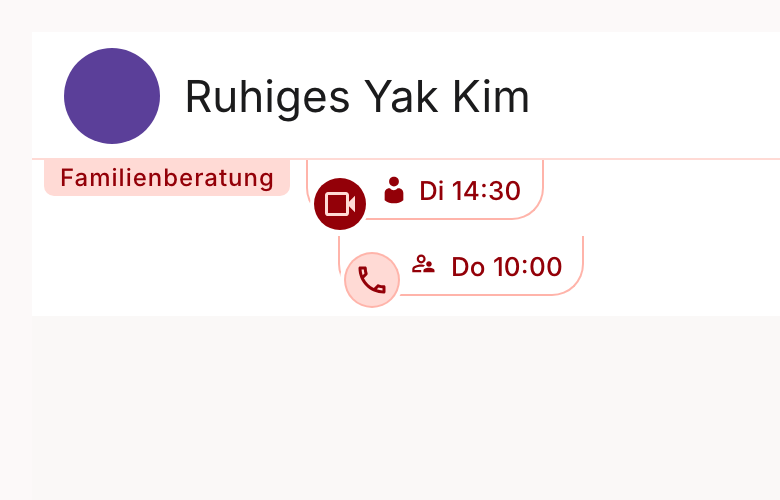
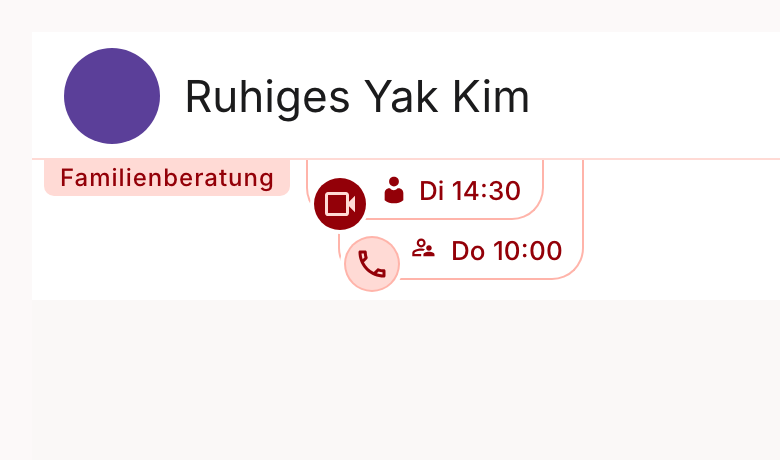
feat(chat-header): stacked phone pennants: second hangs from the divider behind the first; closed variant for review
Refs #2494

diff --git a/src/components/sessionsList/timeline/appointmentPennant.styles.scss b/src/components/sessionsList/timeline/appointmentPennant.styles.scss
@@ -165,14 +165,36 @@
 
 	// Two kinds on the phone hang stacked: the second from the first, one
 	// step in, so the topic keeps its whole word (Frank, 2026-11-24).
-	.roomAppointmentPennants {
+	.roomNextAppointment.roomAppointmentPennants {
 		flex-direction: column;
 		align-items: flex-start;
 		gap: 0;
 
+		// S1: the second pennant hangs from the divider too, behind the
+		// first: its side lines run up to the line, its top is hidden.
 		> .appointmentPennant + .appointmentPennant {
+			z-index: 0;
+			height: calc(2 * var(--pennant-height));
+			margin-top: calc(-1 * var(--pennant-height));
 			margin-left: 16px;
+			padding-top: var(--pennant-height);
 		}
+
+		> .appointmentPennant:first-child {
+			z-index: 1;
+		}
+	}
+
+	// S2 (review): the second pennant closes at the top, a rounded tag of
+	// its own hanging under the first.
+	.roomNextAppointment.roomAppointmentPennants--closed
+		> .appointmentPennant
+		+ .appointmentPennant {
+		height: var(--pennant-height);
+		margin-top: 4px;
+		padding-top: 0;
+		border-top: 1px solid var(--pennant-edge);
+		border-radius: 16px;
 	}
 
 	// The short dates stay whole.

diff --git a/src/components/sessionsList/timeline/AppointmentPennant.stories.tsx b/src/components/sessionsList/timeline/AppointmentPennant.stories.tsx
@@ -169,6 +169,22 @@ export const PhoneStacked: Story = {
 	)
 };
 
+/** Phone, stacked, the second pennant closed at the top. */
+export const PhoneStackedClosed: Story = {
+	name: 'Telefon — gestapelt, zweiter Wimpel oben geschlossen',
+	globals: { viewport: { value: 'mobile1', isRotated: false } },
+	render: () => (
+		<Header width={375}>
+			<RoomNextAppointment
+				entry={askerAppointment}
+				role="counsellor"
+				extra={two}
+				look="closed"
+			/>
+		</Header>
+	)
+};
+
 /** One appointment with the advice seeker. */
 export const One: Story = {
 	name: 'Ein Termin',

diff --git a/src/components/sessionsList/timeline/AppointmentSplitButton.tsx b/src/components/sessionsList/timeline/AppointmentSplitButton.tsx
@@ -280,7 +280,7 @@ export const RoomNextAppointment = ({
 		withKind?: 'asker' | 'supervisor';
 	}[];
 	/** Design review only: the pennant variants (FE#2494). */
-	look?: 'flat' | 'knob' | 'stacked';
+	look?: 'flat' | 'knob' | 'stacked' | 'closed';
 }) =>
 	entry || extra.length > 0 || action ? (
 		<div
